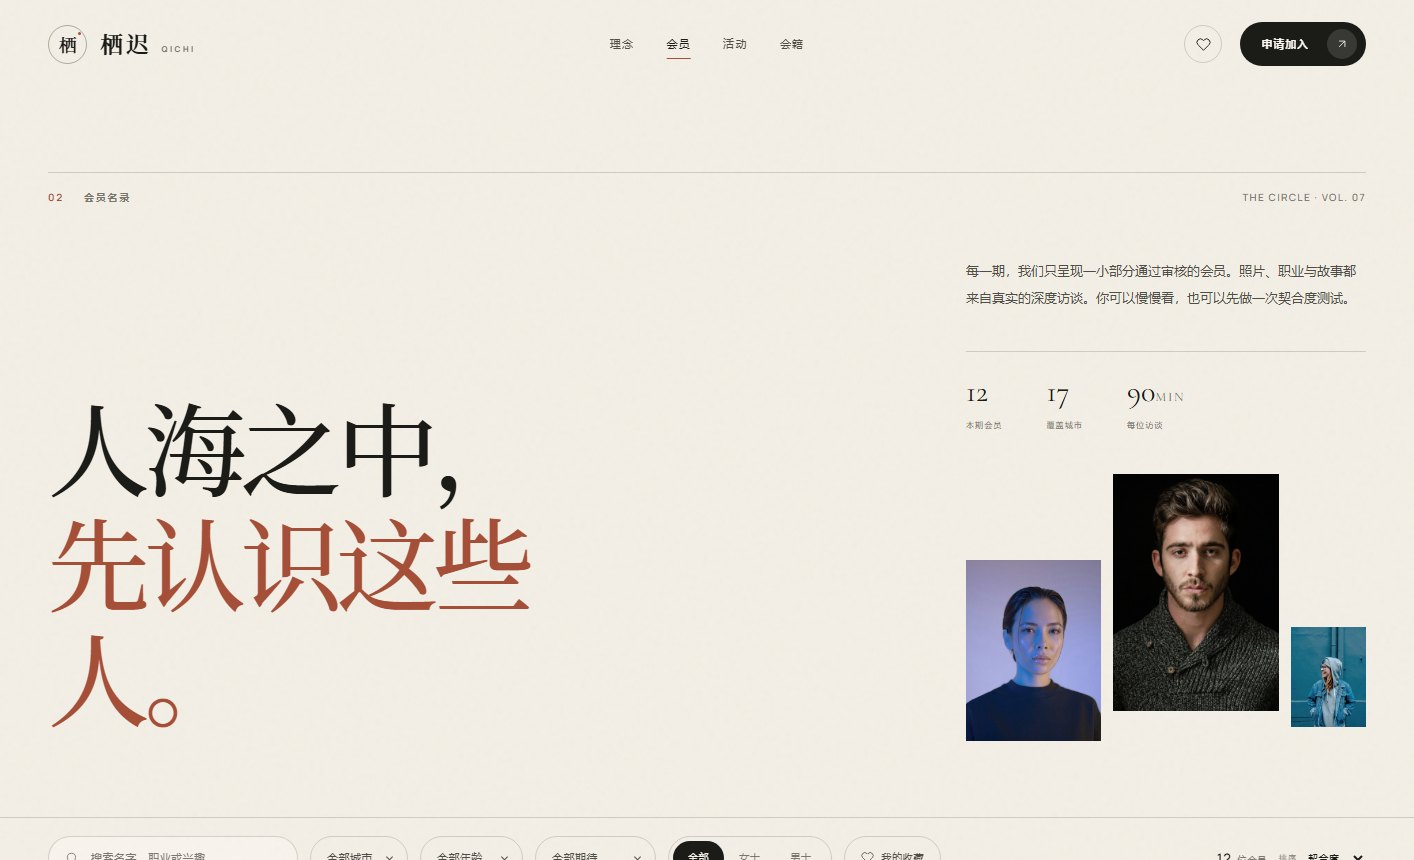
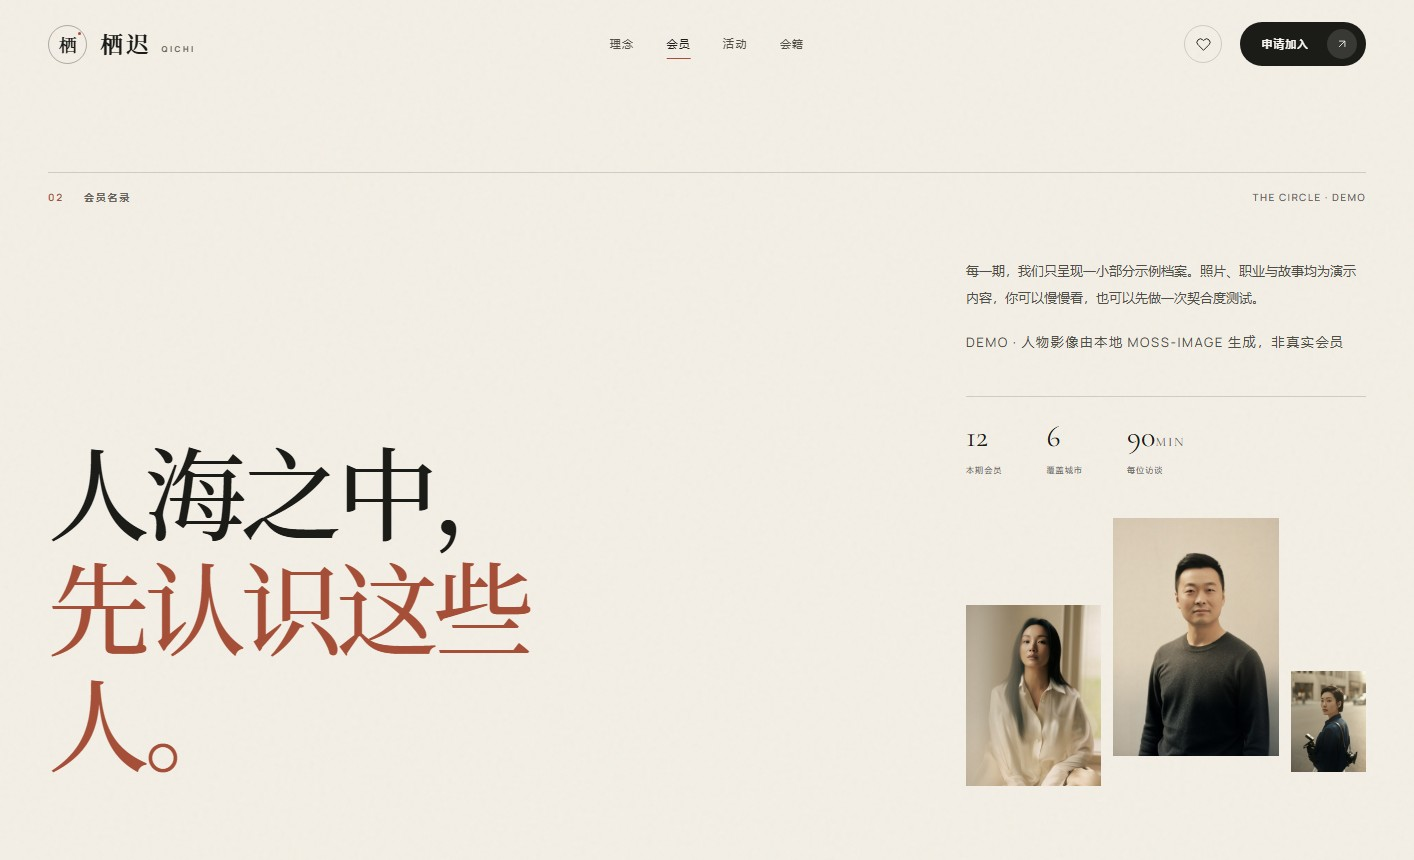
feat: replace demo cast with local MOSS-generated portraits

diff --git a/assets/js/app.js b/assets/js/app.js
@@ -179,7 +179,7 @@ function homeTemplate() {
   const marquee = marqueeItems.map((item) => `<span class="marquee-item">${item}</span>`).join("");
   const storySlides = stories.map((story, index) => `
     <div class="story-image ${index === 0 ? "active" : ""}" data-story-image="${index}">
-      <img src="${story.image}" alt="栖迟会员故事" loading="lazy">
+      <img src="${story.image}" alt="一对中国伴侣的婚礼纪实肖像" loading="lazy">
     </div>
   `).join("");
   const event = events[0];
@@ -206,15 +206,15 @@ function homeTemplate() {
                 <span><img src="${profiles[6].image}" alt="" loading="lazy"></span>
                 <span><img src="${profiles[1].image}" alt="" loading="lazy"></span>
               </div>
-              <p><strong>1,284 位认真会员</strong><span>他们都在寻找一段可以慢慢发生的关系</span></p>
+              <p><strong>12 位示例会员</strong><span>AI 生成的虚构档案 · 非真实会员</span></p>
             </div>
           </div>
           <div class="hero-visual">
             <figure class="hero-photo">
-              <img src="assets/images/hero-couple.jpg" alt="一对在自然光下相拥的伴侣" fetchpriority="high">
+              <img src="assets/images/hero-couple.jpg" alt="一对中国伴侣在自然光下的亲密肖像" fetchpriority="high">
               <figcaption class="hero-photo-cap"><span>Shanghai · Spring 2026</span><span>a quiet beginning</span></figcaption>
             </figure>
-            <figure class="hero-small"><img src="assets/images/small-portrait.jpg" alt="栖迟会员肖像" loading="lazy"></figure>
+            <figure class="hero-small"><img src="assets/images/small-portrait.jpg" alt="一位中国会员的肖像" loading="lazy"></figure>
             <div class="hero-quote">我们不制造心动，<br>只让相遇更接近真实。</div>
             <div class="hero-seal"><span class="seal-cn">认真</span><span class="seal-en">QICHI · EST. 2019</span></div>
           </div>
@@ -250,7 +250,7 @@ function homeTemplate() {
             <span class="mini">A NOTE FROM QICHI</span>
           </div>
           <figure class="manifesto-image reveal-img">
-            <img src="assets/images/manifesto.jpg" alt="一对伴侣在自然光下相拥" loading="eager">
+            <img src="assets/images/manifesto.jpg" alt="一对中国伴侣在窗边交谈" loading="eager">
             <figcaption><span>Real connection, not performance</span><span>QICHI / 2026</span></figcaption>
           </figure>
         </div>
@@ -261,7 +261,7 @@ function homeTemplate() {
       <div class="wrap">
         <div class="section-label">
           <span class="label-left"><span class="label-no">02</span> 本周引荐</span>
-          <span class="label-right">THE CIRCLE · 12 MEMBERS</span>
+          <span class="label-right">THE CIRCLE · DEMO 12</span>
         </div>
         <div class="section-title-row">
           <h2 class="section-title">值得认识的人，<br>不必很多。</h2>
@@ -373,7 +373,7 @@ function homeTemplate() {
     </section>
 
     <section class="cta">
-      <div class="cta-bg"><img src="assets/images/cta-couple.jpg" alt="黄昏中的一对伴侣" loading="lazy"></div>
+      <div class="cta-bg"><img src="assets/images/cta-couple.jpg" alt="黄昏中相拥的中国伴侣" loading="lazy"></div>
       <div class="cta-content">
         <span class="eyebrow">MEMBERSHIP · 每月开放 20 个申请名额</span>
         <h2>下一次相遇，<br>从你<em>愿意开始。</em></h2>
@@ -406,15 +406,16 @@ function discoverTemplate() {
       <div class="wrap">
         <div class="section-label">
           <span class="label-left"><span class="label-no">02</span> 会员名录</span>
-          <span class="label-right">THE CIRCLE · VOL. 07</span>
+          <span class="label-right">THE CIRCLE · DEMO</span>
         </div>
         <div class="page-hero-grid">
           <div><h1>人海之中，<br><span class="accent">先认识这些人。</span></h1></div>
           <div class="page-hero-aside">
-            <p>每一期，我们只呈现一小部分通过审核的会员。照片、职业与故事都来自真实的深度访谈。你可以慢慢看，也可以先做一次契合度测试。</p>
+            <p>每一期，我们只呈现一小部分示例档案。照片、职业与故事均为演示内容，你可以慢慢看，也可以先做一次契合度测试。</p>
+            <p class="demo-note">DEMO · 人物影像由本地 MOSS-Image 生成，非真实会员</p>
             <div class="page-hero-meta">
               <div><strong>${profiles.length}</strong><span>本期会员</span></div>
-              <div><strong>17</strong><span>覆盖城市</span></div>
+              <div><strong>6</strong><span>覆盖城市</span></div>
               <div><strong>90<span style="font-size:13px">min</span></strong><span>每位访谈</span></div>
             </div>
             <div class="page-collage">
@@ -541,7 +542,7 @@ function membershipTemplate() {
             </div>
             <h1>不是注册，<br><span class="accent">是一次相互选择。</span></h1>
             <p class="lead">我们每个月只接受有限数量的申请。不是为了制造稀缺，而是为了确保每一段被介绍的关系，都经过足够的理解与准备。</p>
-            <span class="membership-badge"><span></span> 本月剩余 7 个申请名额</span>
+            <span class="membership-badge"><span></span> 会籍申请制 · 演示流程</span>
           </div>
           <div class="membership-visual">
             <div class="membership-image"><img src="assets/images/hero-couple.jpg" alt="一对在自然中相拥的伴侣" loading="eager"></div>

diff --git a/assets/css/style.css b/assets/css/style.css
@@ -487,7 +487,7 @@ body.menu-open .mobile-menu{transform:translateY(0)}
 /* ---------- CTA ---------- */
 .cta{min-height:700px;display:grid;place-items:center;overflow:hidden;text-align:center;color:var(--paper-soft)}
 .cta-bg{position:absolute;inset:0}
-.cta-bg img{width:100%;height:100%;object-fit:cover;filter:brightness(.46) saturate(.7)}
+.cta-bg img{width:100%;height:100%;object-fit:cover;object-position:center 30%;filter:brightness(.46) saturate(.7)}
 .cta-bg::after{content:"";position:absolute;inset:0;background:radial-gradient(circle at center,rgba(15,14,12,.1),rgba(15,14,12,.4))}
 .cta-content{position:relative;z-index:2;max-width:920px;padding:100px 24px}
 .cta .eyebrow{justify-content:center;color:rgba(255,253,248,.65)}
@@ -1167,3 +1167,5 @@ body.menu-open .site-header .brand-mark::after{background:#d3aa80}
 
 .field .consent{font-size:10px;letter-spacing:0;text-transform:none;color:var(--muted);font-weight:400;line-height:1.8}
 .field .consent span{font-size:10px}
+
+.demo-note{margin-top:18px;font-size:9px;letter-spacing:.12em;text-transform:uppercase;color:var(--clay);line-height:1.9}

diff --git a/index.html b/index.html
@@ -18,8 +18,8 @@
   <link rel="preload" href="assets/fonts/noto-serif-sc-500.woff2" as="font" type="font/woff2" crossorigin>
   <link rel="preload" href="assets/fonts/manrope.woff2" as="font" type="font/woff2" crossorigin>
   <link rel="preload" as="image" href="assets/images/hero-couple.jpg">
-  <link rel="stylesheet" href="assets/css/style.css?v=20260418b">
-  <script type="module" src="assets/js/app.js?v=20260418b"></script>
+  <link rel="stylesheet" href="assets/css/style.css?v=20261102">
+  <script type="module" src="assets/js/app.js?v=20261102"></script>
 </head>
 <body>
   <a class="skip-link" href="#view">跳到主要内容</a>
@@ -109,7 +109,7 @@
       <div class="footer-bottom">
         <span>© 2026 QICHI 栖迟 · All rights reserved</span>
         <span class="demo-note">Design demo · 会员资料与影像仅用于展示</span>
-        <span>Photography via Unsplash</span>
+        <span>Portraits generated with MOSS-Image</span>
       </div>
     </div>
     <div class="footer-mark" aria-hidden="true">栖迟</div>

diff --git a/scripts/moss_generate.py b/scripts/moss_generate.py
@@ -1,0 +1,100 @@
+import os, sys, time, gc, json, argparse
+from pathlib import Path
+import torch
+import cv2
+from PIL import Image
+from transformers import AutoTokenizer
+
+MODEL = Path(r"C:/Users/hu/AI/MOSS-Image")
+OUT = MODEL / "qichi_out"
+OUT.mkdir(parents=True, exist_ok=True)
+sys.path.insert(0, str(MODEL))
+from pipeline_moss_image import MOSSImagePipeline
+
+TASKS = {
+  "profile-linzhixia": dict(w=960,h=1280,seed=31051,faces=1,prompt="一位29岁的中国女性，东亚面孔，建筑设计师，清透自然的妆容，黑色长发，穿米白色丝质衬衫，坐在窗边安静地看向镜头。真实摄影，暖色胶片质感，自然光，浅景深，低饱和暖米色调，高端生活方式杂志编辑肖像，半身构图，背景是浅米色墙面，只有她一个人，背景简洁。"),
+  "profile-shenzhiwei": dict(w=960,h=1280,seed=31002,faces=1,prompt="一位31岁的中国女性，东亚面孔，品牌策略顾问，温婉知性，齐肩黑发，穿深绿色针织上衣，坐在茶室木桌旁，柔和侧光。真实摄影，暖色胶片质感，浅景深，低饱和暖米色调，高端生活方式杂志编辑肖像，半身构图，背景简洁。"),
+  "profile-zhouyuan": dict(w=960,h=1280,seed=31003,faces=1,prompt="一位27岁的中国女性，东亚面孔，纪录片剪辑师，清爽短发，穿深蓝色牛仔衬衫，肩背相机，站在有自然光的城市街角，神情安静而敏锐。真实摄影，暖色胶片质感，浅景深，低饱和暖米色调，高端生活方式杂志编辑肖像，半身构图，背景简洁。"),
+  "profile-xuqinghe": dict(w=960,h=1280,seed=31004,faces=1,prompt="一位30岁的中国女性，东亚面孔，科技公司产品负责人，利落长发，穿浅灰色西装外套，站在明亮的现代办公室窗前，自信温和。真实摄影，暖色胶片质感，浅景深，低饱和暖米色调，高端生活方式杂志编辑肖像，半身构图，背景简洁。"),
+  "profile-gunanzhi": dict(w=960,h=1280,seed=31005,faces=1,prompt="一位33岁的中国女性，东亚面孔，独立策展人，黑色长发低束，穿亚麻质感米色长裙，站在当代艺术空间的白墙旁，神情从容，有艺术气质。真实摄影，暖色胶片质感，柔和的自然侧光，低饱和暖米色调，高端生活方式杂志编辑肖像，半身构图，背景简洁。"),
+  "profile-sunian": dict(w=960,h=1280,seed=31006,faces=1,prompt="一位28岁的中国女性，东亚面孔，律师，黑发自然披肩，穿剪裁利落的黑色西装外套，坐在安静的咖啡馆窗边，神情清醒而柔和。真实摄影，暖色胶片质感，浅景深，低饱和暖米色调，高端生活方式杂志编辑肖像，半身构图，背景简洁。"),
+  "profile-chenyu": dict(w=960,h=1280,seed=31057,faces=1,prompt="一位32岁的中国男性，东亚面孔，建筑师，短黑发，穿深灰色针织衫，气质沉稳温和，站在浅米色墙面前，只有他一个人，自然侧光。真实摄影，暖色胶片质感，浅景深，低饱和暖米色调，高端生活方式杂志编辑肖像，半身构图，背景简洁。"),
+  "profile-jiangxu": dict(w=960,h=1280,seed=31008,faces=1,prompt="一位30岁的中国男性，东亚面孔，早期基金投资经理，黑色短发，穿深色西装外套不系领带，站在高层办公室窗前，神情自信克制。真实摄影，暖色胶片质感，浅景深，低饱和暖米色调，高端生活方式杂志编辑肖像，半身构图，背景简洁。"),
+  "profile-lujianchuan": dict(w=960,h=1280,seed=31009,faces=1,prompt="一位34岁的中国男性，东亚面孔，学术编辑与译者，戴细框眼镜，穿深棕色针织开衫，坐在堆满书的木桌旁，神情温和有书卷气。真实摄影，暖色胶片质感，浅景深，低饱和暖米色调，高端生活方式杂志编辑肖像，半身构图，背景简洁。"),
+  "profile-heyan": dict(w=960,h=1280,seed=31010,faces=1,prompt="一位29岁的中国男性，东亚面孔，智能硬件工程师，短黑发，穿深蓝色轻薄夹克，站在海边或户外，笑容坦率，自然光。真实摄影，暖色胶片质感，浅景深，低饱和暖米色调，高端生活方式杂志编辑肖像，半身构图，背景简洁。"),
+  "profile-wenyining": dict(w=960,h=1280,seed=31011,faces=1,prompt="一位31岁的中国男性，东亚面孔，私房餐厅主厨，短黑发，穿米白色厨师围裙和深色衬衫，站在温暖的自然光厨房里，神情踏实温和。真实摄影，暖色胶片质感，浅景深，低饱和暖米色调，高端生活方式杂志编辑肖像，半身构图，背景简洁。"),
+  "profile-chengye": dict(w=960,h=1280,seed=31072,faces=1,prompt="一位28岁的中国男性，东亚面孔，独立音乐人，略长的黑发，穿旧牛仔外套，肩上背着木吉他，站在纯浅米色摄影棚背景前，只有他一个人，自然侧光，气质自由松弛。真实摄影，暖色胶片质感，浅景深，低饱和暖米色调，高端生活方式杂志编辑肖像，半身构图，背景干净，没有其他人。"),
+  "hero-couple": dict(w=960,h=1200,seed=32011,faces=2,prompt="一对30岁左右的中国情侣，东亚面孔，只有两个人，画面中没有其他人，近景半身，女性在左男性在右，两人自然相拥，面部清晰可见，眼神温柔，女性穿米白色丝质连衣裙，男性穿深色针织衫，自然光。真实摄影，暖色胶片质感，浅景深，低饱和暖米色调，高端生活方式杂志封面，上海老洋房窗边，背景简洁。"),
+  "hero-alt1": dict(w=960,h=1200,seed=32021,faces=2,prompt="一对30岁左右的中国情侣，东亚面孔，正面半身双人肖像，两人并肩站立，女性在左男性在右，都看向镜头，温柔微笑，穿米白丝质裙和深色针织衫，自然光，老洋房窗边，真实摄影，暖色胶片，浅景深，低饱和暖米色调，高端生活方式杂志封面，画面中只有两个人，背景简洁。"),
+  "hero-alt2": dict(w=960,h=1200,seed=32022,faces=2,prompt="一对30岁左右的中国情侣，东亚面孔，正面半身双人肖像，两人并肩站立，女性在左男性在右，都看向镜头，温柔微笑，穿米白丝质裙和深色针织衫，自然光，老洋房窗边，真实摄影，暖色胶片，浅景深，低饱和暖米色调，高端生活方式杂志封面，画面中只有两个人，背景简洁。"),
+  "small-portrait": dict(w=768,h=1024,seed=32002,faces=1,prompt="一位28岁的中国女性，东亚面孔，近景肖像，清透自然的妆容，黑色长发，穿米白色丝质上衣，安静地看向镜头。真实摄影，暖色胶片质感，自然光，浅景深，低饱和暖米色调，高端生活方式杂志编辑肖像，背景简洁。"),
+  "manifesto": dict(w=1200,h=800,seed=32013,faces=2,prompt="一对中国情侣坐在窗边安静交谈，东亚面孔，三十岁左右，两个人的侧脸都清晰可见，女性在左男性在右，穿米白与深色天然材质服装，自然亲密，不摆拍。真实摄影，暖色胶片质感，柔和的自然光，浅景深，低饱和暖米色调，高端生活方式杂志摄影，横向构图，老洋房室内，背景简洁。"),
+  "story": dict(w=960,h=1200,seed=32004,faces=2,prompt="一对中国新婚伴侣，东亚面孔，女性穿象牙白丝质婚纱，男性穿深色西装，在柔和的窗边自然相拥，真实婚礼纪实，不摆拍。真实摄影，暖色胶片质感，浅景深，低饱和暖米色调，高端婚礼杂志摄影，半身构图，背景简洁。"),
+  "cta-couple": dict(w=1280,h=720,seed=32015,faces=1,prompt="一对中国伴侣在黄昏的城市屋顶相拥，东亚面孔，三十岁左右，近景半身，女性靠在男性肩头，两人侧脸清晰可见，女性穿米白长裙，男性穿深色西装，城市天际线在背景中虚化，自然亲密。真实摄影，暖色胶片质感，电影感，浅景深，低饱和暖米色调，高端生活方式杂志摄影，横向构图。"),
+  "event": dict(w=1200,h=800,seed=32006,faces=6,prompt="一群中国年轻专业人士在上海老洋房的长桌旁共进晚餐，暖黄灯光，自然交谈，真实抓拍，克制的奢华感。真实摄影，生活方式杂志摄影，低饱和暖色调，木质长桌，精致餐具，柔和虚化背景，横向构图。"),
+}
+
+def encode(pipe, text):
+    f = pipe.tokenizer.apply_chat_template([{"role":"user","content":text}], tokenize=False, add_generation_prompt=True, enable_thinking=True)
+    inp = pipe.tokenizer(f, return_tensors="pt", truncation=True, max_length=4096)
+    with torch.no_grad():
+        out = pipe.text_encoder(**inp, use_cache=False, return_dict=True)
+    return out.last_hidden_state, torch.ones(out.last_hidden_state.shape[:2], dtype=torch.bool)
+
+def face_count(path):
+    im = cv2.imread(str(path))
+    if im is None: return 0
+    gray = cv2.cvtColor(im, cv2.COLOR_BGR2GRAY)
+    cas = cv2.CascadeClassifier(cv2.data.haarcascades + "haarcascade_frontalface_default.xml")
+    return len(cas.detectMultiScale(gray, 1.05, 5))
+
+def main():
+    ap = argparse.ArgumentParser()
+    ap.add_argument("--ids", default="")
+    args = ap.parse_args()
+    ids = [x.strip() for x in args.ids.split(",") if x.strip()] or list(TASKS)
+    print("loading local MOSS pipeline...", flush=True)
+    t0 = time.time()
+    pipe = MOSSImagePipeline.from_components_pretrained(
+        transformer_path=str(MODEL/"transformer"),
+        text_encoder_path=str(MODEL/"text_encoder"),
+        vae_path=str(MODEL/"vae"),
+        local_files_only=True,
+    )
+    pipe.text_encoder.to("cpu"); pipe.transformer.to("cuda"); pipe.vae.to("cuda")
+    pipe.vae.enable_tiling()
+    pipe.tokenizer = AutoTokenizer.from_pretrained(str(MODEL/"tokenizer"), local_files_only=True)
+    pipe.tokenizer.chat_template = open(MODEL/"tokenizer"/"chat_template.jinja", encoding="utf-8").read()
+    pipe.set_progress_bar_config(disable=True)
+    print("loaded", round(time.time()-t0,1), flush=True)
+    neg, nm = encode(pipe, "")
+    meta=[]
+    for index, name in enumerate(ids, 1):
+        task = TASKS[name]
+        out = OUT / f"{name}.png"
+        if out.exists():
+            print("skip", name, flush=True); continue
+        prompt = task["prompt"]
+        print(f"[{index}/{len(ids)}] encode {name}", flush=True)
+        t=time.time(); pos, pm = encode(pipe, prompt)
+        print("  encoded", round(time.time()-t,1), flush=True)
+        pos, pm = pos.cuda(), pm.cuda(); negd, nmd = neg.cuda(), nm.cuda()
+        gc.collect(); torch.cuda.empty_cache()
+        t=time.time()
+        image = pipe(prompt=None, prompt_embeds=pos, prompt_attention_mask=pm,
+                     negative_prompt_embeds=negd, negative_prompt_attention_mask=nmd,
+                     height=task["h"], width=task["w"], num_inference_steps=16,
+                     guidance_scale=3.0,
+                     generator=torch.Generator(device="cuda").manual_seed(task["seed"])).images[0]
+        image.save(out)
+        elapsed=round(time.time()-t,1)
+        nf=face_count(out)
+        print(f"  generated {name} {task['w']}x{task['h']} in {elapsed}s faces={nf}", flush=True)
+        meta.append({"name":name,"w":task["w"],"h":task["h"],"seed":task["seed"],"faces":nf,"seconds":elapsed,"prompt":prompt})
+        del pos,pm,negd,nmd,image; gc.collect(); torch.cuda.empty_cache()
+    with open(OUT/"metadata.jsonl","a",encoding="utf-8") as f:
+        for row in meta: f.write(json.dumps(row,ensure_ascii=False)+"\n")
+    print("done", flush=True)
+
+if __name__ == "__main__":
+    main()

diff --git a/README.md b/README.md
@@ -76,7 +76,9 @@ python -m http.server 4173
 │   ├── js/app.js
 │   ├── js/data.js
 │   ├── fonts/
-│   └── images/
+│   └── images/          # MOSS-Image 生成的演示影像
+├── scripts/
+│   └── moss_generate.py # 本地 MOSS 生成脚本
 ├── screenshots/
 ├── server.mjs
 ├── .github/workflows/deploy.yml
@@ -85,11 +87,12 @@ python -m http.server 4173
 
 ## 影像与字体
 
-摄影来自 [Unsplash](https://unsplash.com)，仅用于设计演示。字体许可如下：
+人物影像由本地 [MOSS-Image](https://github.com/OpenMOSS/MOSS-Image) 生成，仅用于设计演示；所有人物与档案均为虚构，不代表真实会员。具体生成参数见 [assets/images/GENERATED.md](assets/images/GENERATED.md)。字体许可如下：
 
 - **Noto Serif SC** — SIL Open Font License 1.1
 - **Cormorant Garamond** — SIL Open Font License 1.1
 - **Manrope** — SIL Open Font License 1.1
+- **MOSS-Image** — Apache License 2.0（本地推理，未重新下载模型）
 
 ## License
 

diff --git a/assets/images/GENERATED.md b/assets/images/GENERATED.md
@@ -1,0 +1,12 @@
+# Demo imagery
+
+All people and lifestyle images in this folder were generated locally with
+**OpenMOSS-Team / MOSS-Image-Base** using the user's existing local weights at
+`C:\Users\hu\AI\MOSS-Image`.
+
+- Model license: Apache License 2.0
+- Generation: 16 inference steps, guidance scale 3.0
+- Portraits: 960 × 1280, final JPEG quality 90
+- The people are wholly synthetic; they do not depict real members.
+- No model weights are stored in this repository and no model was downloaded
+  while producing the site.
